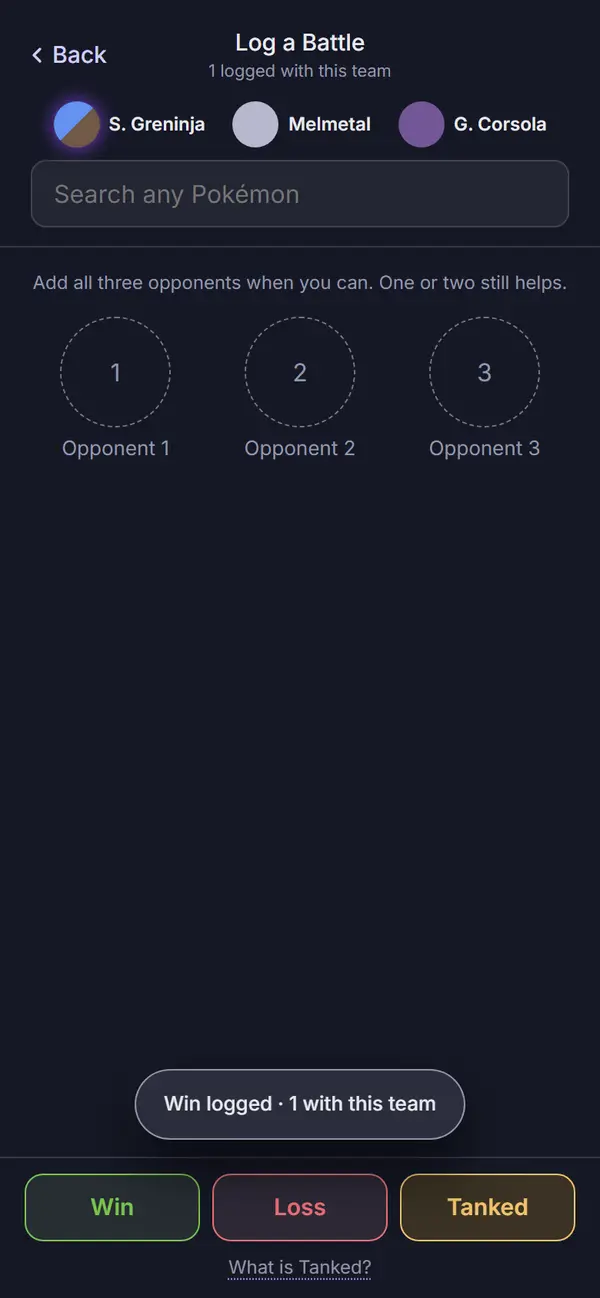
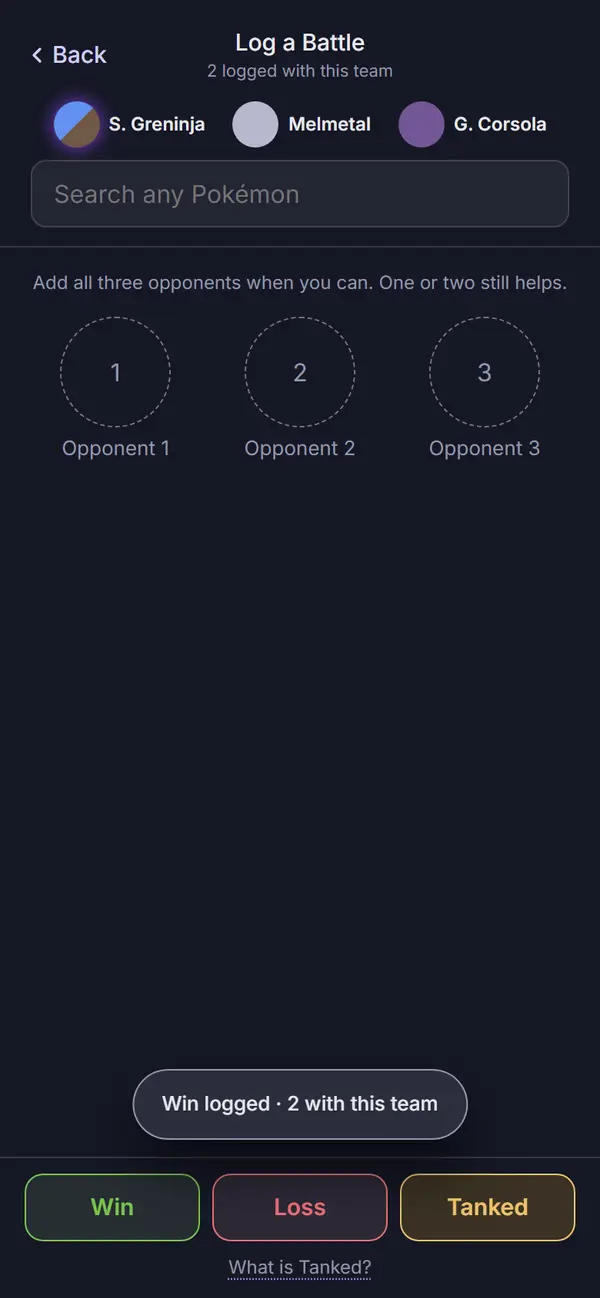
Design: final review record fixes for Play and the signed pages
Final review I2, I3, M5 and M6, plus the fix wave's own run.

I2: analysis.md gains an After sign-off row for "Link copied" as an info
confirmation at the foot ("Could not copy" stays a warning; the toast
button is now 44px); teams.md gains one for the update toast's button and
padding, and its "unchanged" line points to it. Both keep their
signatures. your-meta.md and log-battle.md no longer say that record
"still describes" the old toast.

I3: log-battle.md names the six close cells log-battle-card shows and
points the open decision at them. M5: store.test.tsx covers an edit with
sharing off (no /battles call; fails with the sharing check removed), and
the redirect cites the real newSet.test.tsx block. M6: your-meta.md says
the T chip is gray where Tanked is amber (flagged for Travis), "Save
changes or Back", and 28 contrast cases.

web:audit on e80cc9c: exit 0, zero findings on every enforced screen.
log-battle-likely, -saved and -edit were re-converted (0 logged; 2 and 3
with this team; the seeded time); every other Play and signed capture
converted byte for byte identical. The three Play records stay unsigned.

Claude-Session: https://claude.ai/code/session_01QpDSW9ZhLWToL3VMBP1mJq

diff --git a/apps/web/test/store.test.tsx b/apps/web/test/store.test.tsx
@@ -402,6 +402,46 @@ describe('battle log actions', () => {
     }
   });
 
+  it('with sharing off, an edit does not try to send (the same setup sends with sharing on, above)', async () => {
+    await storage.saveSettings({ ...DEFAULT_SETTINGS, share: { enabled: false } });
+    const eligibleSpy = vi
+      .spyOn(await import('../src/metaShare.ts'), 'shareEligible')
+      .mockReturnValue(true);
+    const fetchSpy = vi
+      .spyOn(globalThis, 'fetch')
+      .mockResolvedValue(new Response(null, { status: 200 }));
+    const battlePosts = () =>
+      fetchSpy.mock.calls.filter(([url]) => String(url).includes('/battles')).length;
+    try {
+      await mount();
+      expect(latest!.state.settings.share?.enabled).toBe(false);
+      await act(async () => {
+        await latest!.actions.startSet({ species: ['tinkaton', 'azumarill', 'clodsire'] });
+        await latest!.actions.logBattle({ opponents: ['medicham'], result: 'win', tanked: false });
+      });
+      const setId = latest!.state.sets[0]!.id;
+      const battleId = latest!.state.sets[0]!.battles[0]!.id;
+      let ok = false;
+      await act(async () => {
+        ok = await latest!.actions.editBattle(setId, battleId, {
+          opponents: ['medicham'],
+          result: 'loss',
+          tanked: false,
+        });
+      });
+      expect(ok).toBe(true);
+      // Give a share sync every chance to run before checking that none went out.
+      await act(async () => {
+        await new Promise((r) => setTimeout(r, 50));
+      });
+      expect(battlePosts()).toBe(0);
+      expect(latest!.state.sets[0]!.battles[0]!.sharedAt).toBeUndefined();
+    } finally {
+      fetchSpy.mockRestore();
+      eligibleSpy.mockRestore();
+    }
+  });
+
   it('endSet closes a partial set and startFresh marks the league', async () => {
     await mount();
     await act(async () => {

diff --git a/docs/design/audits/log-battle.md b/docs/design/audits/log-battle.md
@@ -15,8 +15,10 @@ sprite rendering itself.
 ## Screenshots
 
 Dark and light at 390px, one pair per state, converted to WebP (600px wide, quality 72), from
-`apps/web/screenshots/<name>-{dark,light}.png` (fresh `npm run web:audit` run, 2026-09-26, on
-`7a40b6a`, the branch's last commit). `21-log-battle`, `log-battle-card` and `log-battle-edit` are
+`apps/web/screenshots/<name>-{dark,light}.png` (`npm run web:audit` run, 2026-09-26, on
+`7a40b6a`; re-run for the final fix wave on `e80cc9c`, where `log-battle-likely`,
+`log-battle-saved` and `log-battle-edit` changed and were re-converted, and the other three
+converted byte for byte identical). `21-log-battle`, `log-battle-card` and `log-battle-edit` are
 full-page; `log-battle-likely`, `log-battle-saved` and `log-battle-wide` are viewport shots (the
 first two mid-flow, where a full-page shot would add nothing new below the fold; the wide shot is
 1280×900, the width and height alone, not a phone viewport).
@@ -24,15 +26,16 @@ first two mid-flow, where a full-page shot would add nothing new below the fold;
 | State | Dark | Light |
 | --- | --- | --- |
 | `21-log-battle`: empty. `Header variant="sub"` "Log a Battle" / "0 logged with this team", Back; the team strip (Shadow Greninja, Melmetal, Galarian Corsola); the search "Search any Pokémon"; "Add all three opponents when you can. One or two still helps."; three dashed empty slots; Win/Loss/Tanked at the foot with "What is Tanked?" under them | ![](img/21-log-battle-dark.webp) | ![](img/21-log-battle-light.webp) |
-| `log-battle-card`: two opponents slotted (Tinkaton, Galarian Corsola), the grid folded, the in-battle card open on Galarian Corsola: moves with counts and effectiveness (1/2, 1x, 2x), the shield grid (Wins / Mixed / Mixed, all-decisive W/L letters, no close cell in this matchup), the reads line (full page) | ![](img/log-battle-card-dark.webp) | ![](img/log-battle-card-light.webp) |
+| `log-battle-card`: two opponents slotted (Tinkaton, Galarian Corsola), the grid folded, the in-battle card open on Galarian Corsola: moves with counts and effectiveness (1/2, 1x, 2x), the shield grid (Wins / Mixed / Mixed; row = your shields, column = theirs; six close cells, outlined rather than filled: S. Greninja 0/0 W and 1/2 L, Melmetal 0/0 W and 2/2 W, G. Corsola 0/0 L and 2/2 L; the other 21 solid), the reads line (full page) | ![](img/log-battle-card-dark.webp) | ![](img/log-battle-card-light.webp) |
 | `log-battle-likely`: one opponent slotted (Medicham), the search still focused and open, "Often with Medicham" leading the panel with six ranked names (Azumarill, Clodsire, Lanturn, Registeel, S. Dragonite, S. Swampert), Recent under it with those six left out | ![](img/log-battle-likely-dark.webp) | ![](img/log-battle-likely-light.webp) |
-| `log-battle-saved`: after a Win is logged, the neutral info notice "Win logged · 1 with this team" sitting at the foot just above the Win/Loss/Tanked bar, the slots cleared back to empty | ![](img/log-battle-saved-dark.webp) | ![](img/log-battle-saved-light.webp) |
-| `log-battle-edit`: opened from a "Loss against ..." result chip on Your Meta. "Edit battle" / "Logged Sep 26, 12:04 PM"; the battle's three opponents fill the slots (Azumarill, Clodsire, Shadow Dragonite, the last wrapping to two lines with no ellipsis); Loss is pressed (filled); the primary reads "Save changes" | ![](img/log-battle-edit-dark.webp) | ![](img/log-battle-edit-light.webp) |
+| `log-battle-saved`: after a Win is logged, the neutral info notice sitting at the foot just above the Win/Loss/Tanked bar, the slots cleared back to empty. Each theme's shot taps the last notice away and logs its own Win for a fresh one (final review M2), so dark reads "Win logged · 2 with this team" and light "Win logged · 3 with this team", the sub-line "2 logged" and "3 logged" to match; the set is put back as it was after the step | ![](img/log-battle-saved-dark.webp) | ![](img/log-battle-saved-light.webp) |
+| `log-battle-edit`: opened from a "Loss against ..." result chip on Your Meta. "Edit battle" / "Logged Sep 26, 1:00 PM" (the seeded battle's time follows the run's clock); the battle's three opponents fill the slots (Azumarill, Clodsire, Shadow Dragonite, the last wrapping to two lines with no ellipsis); Loss is pressed (filled); the primary reads "Save changes" | ![](img/log-battle-edit-dark.webp) | ![](img/log-battle-edit-light.webp) |
 | `log-battle-wide`: 1280×900. Header and team strip span the full width; search, the hint line and the three slots sit in the left column; the in-battle card sits beside them in a right column; Win/Loss/Tanked span the width at the foot | ![](img/log-battle-wide-dark.webp) | ![](img/log-battle-wide-light.webp) |
 
 Not captured, all string- or timing-driven states rather than layout differences: the no-open-set
-redirect to New Set (a defensive path, covered by `apps/web/test/newSet.test.tsx`'s own regression
-test for the redirect and by Log a Battle's "renders New Set when there is no open set" case); the
+redirect to New Set (a defensive path, covered by `apps/web/test/newSet.test.tsx`'s "Cancel escapes
+Log a Battle's own no-set redirect" describe block, which drives the real router from Log a Battle
+with nothing running to New Set and checks the redirect replaces its history entry); the
 in-battle card's loading state (shared `Loading`, the same component audited elsewhere); the
 transient "saving" moment between a result tap and the toast landing; a slot's remove (×) mid-tap.
 
@@ -52,9 +55,10 @@ capture possible.
 ## Automated checks
 
 - [x] `npm run web:audit` clean for this page's screens (listed in `AUDIT_ENFORCED`), run
-      2026-09-26 on `7a40b6a`: exit 0. Zero findings on `21-log-battle`, `log-battle-card`,
-      `log-battle-likely`, `log-battle-saved`, `log-battle-edit` and `log-battle-wide`, in both
-      themes. 693 findings remain on screens not yet redesigned, none failing the run.
+      2026-09-26 on `7a40b6a`, and again for the final fix wave on `e80cc9c`: exit 0 both times.
+      Zero findings on `21-log-battle`, `log-battle-card`, `log-battle-likely`, `log-battle-saved`,
+      `log-battle-edit` and `log-battle-wide`, in both themes. 693 findings remain on screens not
+      yet redesigned, none failing the run.
 - [x] no console errors: the run printed no "Browser errors" section.
 - [x] the run's own guards, all passed:
   - `assertTitleCentred` holds on both "Log a Battle" and "Edit battle" (printed offsets of
@@ -71,13 +75,15 @@ capture possible.
     passed: "Galarian Corsola" is whole on one line in both themes);
   - `log-battle-saved` fails the run if the notice sits outside 4-24px above the result bar, or
     below the sticky head; it passed in both themes;
-  - the restore step confirms no state leaked from Your Meta's seeded capture: this page's own
-    captures all read "0 logged with this team" (`21-log-battle`) or "1 logged with this team"
-    (`log-battle-likely`, `log-battle-saved`) against Your Meta's seeded "3-2", proving the set was
-    put back before these ran.
+  - the restore steps confirm no state leaked between steps: the running set is put back after
+    Your Meta's seeded capture and again after `log-battle-saved`, so `21-log-battle` and
+    `log-battle-likely` both read "0 logged with this team" against Your Meta's seeded "3-2" (on
+    `7a40b6a`, before the second restore, `log-battle-likely` inherited the saved step's Win and
+    read "1 logged").
 - [x] `npm run lint`, `npm run typecheck`, `npm test`, `npm run check-colors`, `npm run
-      check-tokens`, all re-run 2026-09-26 on `7a40b6a`: lint exit 0; typecheck exit 0 across every
-      workspace; `npm test` 140 files, 1287 tests passed; `check-colors` exit 0 (the color-literal
+      check-tokens`, all re-run 2026-09-26 on `7a40b6a` and again on `e80cc9c` for the final fix
+      wave: lint exit 0; typecheck exit 0 across every workspace; `npm test` 140 files, 1291 tests
+      passed on `e80cc9c` (1287 on `7a40b6a`); `check-colors` exit 0 (the color-literal
       baseline shrank by one `#fff`, removed from the shield grid and the toast, never grew);
       `check-tokens`: ok. `npm run ui:audit`: "gallery audit: clean in dark and light" (the `Button`
       win/loss/warn variants and `pressed` prop this page added both show in the gallery).
@@ -190,6 +196,11 @@ capture possible.
 | Task 7, first audit pass (380 enforced findings, all here): the shield grid faded close results with inline `opacity`, taking the letters under 4.5:1; the slot remove (×) was 24×24; the notice/update toast's OK button was 43×30 at 3.22:1 in dark. | A result within 100 of 500 is now a `.close` cell (the outcome tint with an inset outline and a colored letter, `data-audit-contrast="static"` since axe cannot judge a one-letter cell); the (×) is a 44px transparent button around the same 24px circle as a child `<span>`; the OK button is at least 44×44 on `--accent-lo`/`--on-accent` (shared with `UpdateToast`'s Reload). | `307f405` |
 | Task 7, seen in the captures (not caught by axe): "Astonish" broke mid-word ("Astonis / h"); the saved toast wrapped at half the viewport ("Win logged · 1 / with this team"). | The long-move-name shrink now keys on the longest word exceeding 7 characters, not just a single-word name; `.notice-toast` is `width: max-content` (still bounded by `max-width: calc(100vw - 32px)`). | `307f405` |
 | Task 7 round 2: the saved notice still sat at the top with an OK button for 8 seconds, and slot names ellipsized instead of wrapping (a shared review finding with New Set, whose slots use the same rule). | Info notices move to the page's foot (measured against the highest fixed foot bar, here the result bar), one `.notice-tap` to dismiss, no OK, 3 seconds; `.opp-slot .small` wraps on word breaks with no ellipsis, and the remove (×) re-centers from the slot's own center so it stays on the token's upper right. Seen in `log-battle-saved` (the pill above the result bar) and `log-battle-edit` ("Shadow Dragonite" wraps to two lines). | `7a40b6a` |
+| Final review I3: this record said no capture shows a close shield-grid cell (the `log-battle-card` row, the open decision, the open item), though `log-battle-card` shows six in both themes. | The row, the open decision and the open item name the six cells (S. Greninja 0/0 W and 1/2 L, Melmetal 0/0 W and 2/2 W, Galarian Corsola 0/0 L and 2/2 L) and point Travis at `log-battle-card` as the look to judge; checked by eye in the fix wave's capture. | this record's commit |
+| Final review M1: `NoticeToast` measured the foot once, so a confirmation raised on Your Meta (Share this team) and carried into Log a Battle within 3 seconds sat over Win/Loss/Tanked, where a tap dismissed it instead of logging. This record called that unreachable from this page's flow. | The measurement re-runs on a route change; `noticeToast.test.tsx` stubs the bars' boxes and checks the notice moves from above the tab bar to above the result bar (it failed before the fix: 68px against 132px). The open item is dropped. | `75c5fce` |
+| Final review M2: the `log-battle-saved` capture's re-raise returned early when a notice was up (which could clear before `mustShow` read it) and logged real Wins that later steps inherited (`log-battle-likely` read "1 logged"). | Each shot taps any notice away, waits for it to go and logs one Win for a fresh notice; the running set is put back after the step. `log-battle-likely` now reads "0 logged"; `log-battle-saved` reads 2 (dark) and 3 (light). web:audit exit 0 on `e80cc9c`. | `75c5fce`, `e80cc9c` |
+| Final review M3 and M4: `.slot-wrap`'s new rules also matched Build's wrap; `CLOSE_MARGIN` was a second meaning of "close" with no word on why. | Log a Battle's stretch and `min-width` are scoped to `.opp-slots > .slot-wrap`. The first pass also scoped `position: relative`, which Build's `.pick-side` needs (pre-branch, shared): Build's remove button drew off its card and web:audit hung in the build step; `e80cc9c` puts that one declaration back on the shared rule, Build's captures convert identical to its signed record, and the capture script now fails after three remove taps that leave a pick. `CLOSE_MARGIN` carries a comment on the wider, visual band; the open item stays for Travis. | `75c5fce`, `e80cc9c` |
+| Final review M5: Review focus 3 said an edit with sharing off does not send, "both tested", with no such test; the redirect was credited to a Log a Battle test that does not exist. | `store.test.tsx` "with sharing off, an edit does not try to send" (device mocked eligible, no `/battles` call after `editBattle`; it fails with the sharing check removed from `shareSync`: 2 calls). The redirect cites `newSet.test.tsx`'s "Cancel escapes Log a Battle's own no-set redirect" describe block. | this record's commit |
 
 ## Decisions and rulings (plan `2026-09-26-play.md`, `global-constraints.md`)
 
@@ -211,7 +222,10 @@ capture possible.
    the same row once, per Task 1's upsert; the community meta counts it once, with the new result.
 7. **Review focus 2 (tanked to a win, or back):** `result` and `tanked` stay consistent
    (`result: null` exactly when tanked), tested for both directions in `store.test.tsx`.
-8. **Review focus 3 (sharing off):** no board read, and an edit does not try to send; both tested.
+8. **Review focus 3 (sharing off):** no board read, and an edit does not try to send; both tested
+   (`logBattle.test.tsx`'s "does not read the board with sharing off"; `store.test.tsx`'s "with
+   sharing off, an edit does not try to send", which mocks the device as eligible and finds no
+   `/battles` call after `editBattle`, the same setup that sends with sharing on).
 9. **Review focus 5 (the search with the card open on a phone):** the input stays visible below the
    sticky header rather than sliding under it once the card opens, per the spec's own fix.
 
@@ -220,12 +234,13 @@ fade.** Before this task, a result's letter faded in proportion to its margin fr
 continuous read Travis said he liked: "he said he liked the margin shading"). The redesign needed a
 contrast fix (the faded letters fell under 4.5:1), and the fix the controller chose is a two-step
 rule instead: a result within 100 points of 500 is a `.close` cell (tinted, outlined, still a
-colored letter), everything else renders fully solid. None of this record's own captures land a
-close cell (`log-battle-card`'s matchup is decisive on all nine cells in both themes), so the new
-look is not shown in any image here, only in the code (`OpponentCard.tsx`'s `CLOSE_MARGIN = 100`)
-and in `apps/web/test/contrast.test.ts`'s `w.close`/`l.close` cases. The two-step read keeps the
-margin information Travis liked in coarser form; whether that's the right trade against the old
-continuous fade is this record's one open call for sign-off.
+colored letter), everything else renders fully solid. `log-battle-card` (both themes) is the look
+to judge: six of its 27 cells are close and outlined (S. Greninja 0/0 W and 1/2 L, Melmetal 0/0 W
+and 2/2 W, Galarian Corsola 0/0 L and 2/2 L, row = your shields, column = theirs) beside the solid
+rest; `log-battle-wide` shows the same grid. The rule is `OpponentCard.tsx`'s `CLOSE_MARGIN = 100`,
+and `apps/web/test/contrast.test.ts`'s `w.close`/`l.close` cases hold the letters at 4.5:1. The
+two-step read keeps the margin information Travis liked in coarser form; whether that's the right
+trade against the old continuous fade is this record's one open call for sign-off.
 
 ## Visible changes outside Log a Battle
 
@@ -254,7 +269,7 @@ continuous fade is this record's one open call for sign-off.
 ## Open items for Travis (not fixed on this branch)
 
 - **The shield grid's close-margin rule (outlined) replaces the old continuous fade by margin.**
-  See the open decision above; none of this record's captures happen to show a close cell.
+  See the open decision above; `log-battle-card` shows six close cells, solid beside outlined.
 - **The Shadow glow (`.token-shadow-wrap::before`) is still not visible.** Pre-existing, unchanged
   by this branch, the same open item recorded on Team Analysis and Build.
 - **Log a Battle's supporting text stays at 12px** (the `.meta` class: the sub-line, the hint line,
@@ -268,14 +283,10 @@ continuous fade is this record's one open call for sign-off.
   group for this league in the pinned data.** That's a fact about the synthetic fixture, not
   something Log a Battle's own suggestion grid marks (it has no outsider dagger the way Your Meta's
   faced list does); noted here for the record since the dispatch called it out.
-- **The saved notice's foot position is measured once, when it appears**, not re-measured on a
-  route change inside its 3 seconds; a share-then-navigate sequence elsewhere in the app could in
-  principle show the pill against the wrong foot bar for a moment. Not reachable from this page's
-  own flow (its result bar is fixed for the page's lifetime); noted for completeness since the
-  fix is shared app-wide.
 - **The shared confirmation-toast change (info at the foot, no OK, 3 seconds) is a behavior change
-  on the signed Team Analysis page**, whose own audit record still describes the old top-toast
-  "Link copied" behavior. Updating that record is outside this task's three pages.
+  on the signed Team Analysis page.** Its record never described its "Link copied" notice, so it
+  does not record the change; see its "After sign-off" row (and Teams' for the update toast's
+  button). Both keep their signatures.
 
 ## Sign-off
 

diff --git a/docs/design/audits/your-meta.md b/docs/design/audits/your-meta.md
@@ -17,8 +17,8 @@ instead; nothing on this branch touched sprite rendering itself.
 
 Dark and light at 390px, one pair per state, full-page, converted to WebP (600px wide, quality 72)
 the same way the Teams, Build and Team Analysis images were, from
-`apps/web/screenshots/<name>-{dark,light}.png` (fresh `npm run web:audit` run, 2026-09-26, on
-`7a40b6a`, the branch's last commit).
+`apps/web/screenshots/<name>-{dark,light}.png` (`npm run web:audit` run, 2026-09-26, on
+`7a40b6a`; the final fix wave's run on `e80cc9c` converted both pairs byte for byte identical).
 
 | State | Dark | Light |
 | --- | --- | --- |
@@ -38,12 +38,15 @@ dismissed (session-sticky, as before). The result chip's own edit destination is
 ## Automated checks
 
 - [x] `npm run web:audit` clean for this page's screens (listed in `AUDIT_ENFORCED`), run
-      2026-09-26 on `7a40b6a`: exit 0. Zero findings on `20-your-meta` and `your-meta-active` in
-      both themes. 693 findings remain on screens not yet redesigned, none failing the run.
+      2026-09-26 on `7a40b6a`, and again for the final fix wave on `e80cc9c`: exit 0 both
+      times. Zero findings on `20-your-meta` and `your-meta-active` in both themes; the final run's
+      captures of both converted byte for byte identical to the images below. 693 findings
+      remain on screens not yet redesigned, none failing the run.
 - [x] no console errors: the run printed no "Browser errors" section.
 - [x] `npm run lint`, `npm run typecheck`, `npm test`, `npm run check-colors`, `npm run
-      check-tokens`, all re-run 2026-09-26 on `7a40b6a`: lint exit 0; typecheck exit 0 across every
-      workspace; `npm test` 140 files, 1287 tests passed; `check-colors` exit 0; `check-tokens`: ok.
+      check-tokens`, all re-run 2026-09-26 on `7a40b6a` and again on `e80cc9c` for the final fix
+      wave: lint exit 0; typecheck exit 0 across every workspace; `npm test` 140 files, 1291 tests
+      passed on `e80cc9c` (1287 on `7a40b6a`); `check-colors` exit 0; `check-tokens`: ok.
       `npm run ui:audit`: "gallery audit: clean in dark and light" (the shared `Button` win/loss/warn
       variants Log a Battle added, and the `.seg` fix this page's own review moved to the source,
       both live in the gallery).
@@ -58,12 +61,13 @@ dismissed (session-sticky, as before). The result chip's own edit destination is
 - [x] colors from tokens, in their roles: violet marks what you tap (the primary "Log a battle" /
       "Pick your team" button, "See what everyone else is facing", the `Seg`'s pressed label, the
       league switcher); pink is the one measured line, "N of your battles are in the community
-      meta", with its dot, never a pill (`your-meta-active`); the result chips use the outcome
-      tokens (win green, loss red-pink, tanked muted amber-free gray) exactly as Log a Battle's
-      result buttons do; nothing on the page is red (Start fresh keeps `ConfirmSheet`'s default
-      tone, no danger button, confirmed by the test asserting no `.ui-btn-danger` and that
-      `window.confirm` is never called). Backed by `check-colors` (clean) and zero `web:audit`
-      contrast findings in either theme.
+      meta", with its dot, never a pill (`your-meta-active`); the W and L result chips use the
+      outcome tokens (win green, loss red-pink) as Log a Battle's Win and Loss buttons do, but the
+      T chip is a neutral gray (`--surface2` fill, `--muted` letter, `.result-chip.tanked` in
+      `app.css`) while Log a Battle's Tanked button is amber (see Open items); nothing on the page
+      is red (Start fresh keeps `ConfirmSheet`'s default tone, no danger button, confirmed by the
+      test asserting no `.ui-btn-danger` and that `window.confirm` is never called). Backed by
+      `check-colors` (clean) and zero `web:audit` contrast findings in either theme.
 - [x] at most four text levels, one page title, with the same 12px `.meta` supporting-text
       deferral Build and Team Analysis carry (see Open items): "Your Meta" is the one title
       (`Header variant="top"`, matching Teams' pattern); "Current team" and "Your teams" are
@@ -122,8 +126,8 @@ dismissed (session-sticky, as before). The result chip's own edit destination is
       `window.confirm`, and moves battles to Earlier seasons without deleting anything.
 - [x] back returns to the origin: Your Meta is a tab-bar destination rather than a page reached by
       "Back", so this bullet applies to the one route it opens: a result chip's edit route lands
-      back on `#/meta` after Save changes or Cancel, per Log a Battle's own back rule (its record
-      covers the test for that return).
+      back on `#/meta` after Save changes or Back (edit mode has Back, not Cancel), per Log a
+      Battle's own back rule (its record covers the test for that return).
 - [ ] input layout rule: not applicable. Your Meta has no text input.
 - [x] icon buttons named; focus visible: the meta.pick3.gg and Settings `IconButton`s carry their
       labels (matching Teams); the explainer's dismiss is 44×44; each result chip and the `Seg`'s
@@ -145,9 +149,11 @@ dismissed (session-sticky, as before). The result chip's own edit destination is
       the current list and Earlier seasons, and never marked before the meta group loads), the
       explainer copy and its dismissal, both footer variants, Start fresh through the
       `alertdialog`, the one-line link out, and the header `IconButton`s), plus
-      `apps/web/test/contrast.test.ts` (9 tests: each result-chip letter and the `Seg`'s pressed
-      label at 4.5:1 in all three theme blocks) and `apps/web/src/state/contribution.ts`'s own
-      `apps/web/test/contribution.test.ts` (`contributedCount`: stamped and not tanked, across every
+      `apps/web/test/contrast.test.ts` (28 cases in all: this page's 9 are each result-chip
+      letter, W, L and T, at 4.5:1 in all three theme blocks, and 6 are the shared `Seg`'s pressed
+      label on `--bg` and `--surface` in the same blocks; the other 13 are Log a Battle's shield
+      grid, its twelve cell cases and the axis numbers) and
+      `apps/web/src/state/contribution.ts`'s own `apps/web/test/contribution.test.ts` (`contributedCount`: stamped and not tanked, across every
       league, zero for nothing sent).
 
 ## Findings and fixes
@@ -158,6 +164,8 @@ dismissed (session-sticky, as before). The result chip's own edit destination is
 | Task 5 review, Minor: two unrelated `linear-gradient` blocks (`.landing-you`, `.mp-card`) were reformatted by a Prettier pass with no value change, and the report's file-level summary overstated that `.action-row` also got a page-scoped rule. | The two gradient blocks are back on one line each (`git diff` confirms neither rule's value moved); the report line is corrected. | `a5f99e3` |
 | Task 7, seen in the captures (not caught by axe): "Shadow Dragonite" and "Shadow Swampert" wrapped to two lines where the approved render keeps them on one line, and `tabular-nums` on the record spaced "1 - 5" wide without aligning anything, since each row is its own grid. | Dropped `tabular-nums` and added `nowrap` on the name, so both names fit on one line, matching the render; visible in `your-meta-active`, both themes. | `307f405` |
 | Task 7, round 2: the app's confirmation toasts (including this page's own "Link copied" from Share this team) sat at the top with an OK button and read as a warning. | Moved to the shared `NoticeToast` fix (see Log a Battle's record for the full change): info notices now render at the page's foot, one tap to dismiss, no OK, 3 seconds; warnings are unchanged. Not re-captured on this page (no Share tap in the capture flow) but exercised by `apps/web/test/noticeToast.test.tsx` and the app-wide caller check in the Task 7 review. | `7a40b6a` |
+| Final review M6: the result chips were said to use the outcome tokens "exactly as Log a Battle's result buttons do", but the T chip is gray where Tanked is amber; "Save changes or Cancel" (edit mode has Back); `contrast.test.ts` called "9 tests" when it has 28 cases. | The Aesthetics line says W and L match and T is gray, with the gray-versus-amber choice added to Open items for Travis; "Save changes or Back"; the tests line counts the 28 cases (this page's 9 chip cases, 6 `Seg` cases, 13 for Log a Battle's grid). | this record's commit |
+| Final review I2: this record said the signed Team Analysis record "still describes" the old top toast; it never described that notice. | Reworded: that record does not record the change; it now has an "After sign-off" row (and Teams one for the update toast's button). | this record's commit |
 
 ## Decisions and rulings (plan `2026-09-26-play.md`, `global-constraints.md`)
 
@@ -216,9 +224,14 @@ dismissed (session-sticky, as before). The result chip's own edit destination is
   not a bug, but worth a look at sign-off since it may surprise.
 - **The shared confirmation-toast change (info at the foot, no OK, 3 seconds) is a behavior change
   on a page other than this one's own capture set can show:** this page's "Link copied" notice now
-  behaves the same way Log a Battle's saved notice does, but no capture here shows it landing; the
-  Team Analysis signed record still describes the old top-toast behavior for its own "Link copied"
-  line (see Log a Battle's record for the same note).
+  behaves the same way Log a Battle's saved notice does, but no capture here shows it landing. The
+  signed Team Analysis record never described its own "Link copied" notice, so it does not record
+  the change; see its "After sign-off" row (and Teams' for the update toast's button).
+- **The T chip is gray, Log a Battle's Tanked button is amber.** The W and L chips match the Win
+  and Loss buttons' outcome colors; T uses the neutral `--surface2`/`--muted` pair
+  (`.result-chip.tanked`), where Tanked on Log a Battle is the amber `warn` variant. Visible in
+  `your-meta-active`. Gray reads "does not count" (a tanked battle is left out of the record);
+  amber would match the button the battle was logged with. Travis's call at sign-off.
 
 ## Sign-off
 

diff --git a/docs/design/audits/new-set.md b/docs/design/audits/new-set.md
@@ -15,9 +15,10 @@ sprite rendering itself.
 ## Screenshots
 
 Dark and light at 390px, one pair per state, full-page, converted to WebP (600px wide, quality 72),
-from `apps/web/screenshots/<name>-{dark,light}.png` (fresh `npm run web:audit` run, 2026-09-26, on
-`7a40b6a`, the branch's last commit; the run visits Teams first and waits for its recommendation to
-settle before shooting New Set, so its "From pick3" rows have real teams to show).
+from `apps/web/screenshots/<name>-{dark,light}.png` (`npm run web:audit` run, 2026-09-26, on
+`7a40b6a`; the final fix wave's run on `e80cc9c` converted both pairs byte for byte identical;
+the run visits Teams first and waits for its recommendation to settle before shooting New Set, so
+its "From pick3" rows have real teams to show).
 
 | State | Dark | Light |
 | --- | --- | --- |
@@ -33,8 +34,10 @@ button's `disabled` state and the slot contents, tested directly).
 ## Automated checks
 
 - [x] `npm run web:audit` clean for this page's screens (listed in `AUDIT_ENFORCED`), run
-      2026-09-26 on `7a40b6a`: exit 0. Zero findings on `22-new-set` and `new-set-searching`, in
-      both themes. 693 findings remain on screens not yet redesigned, none failing the run.
+      2026-09-26 on `7a40b6a`, and again for the final fix wave on `e80cc9c`: exit 0 both
+      times. Zero findings on `22-new-set` and `new-set-searching` in both themes; the final run's
+      captures of both converted byte for byte identical to the images below. 693 findings
+      remain on screens not yet redesigned, none failing the run.
 - [x] no console errors: the run printed no "Browser errors" section.
 - [x] the run's own guards, all passed:
   - `assertTitleCentred` holds on "Pick Your Team" (printed an offset of `-0.0px` in this run,
@@ -44,8 +47,9 @@ button's `disabled` state and the slot contents, tested directly).
   - `new-set-searching` requires both "From pick3" and "Recent teams" to be absent from the DOM
     while a query is typed, not merely hidden by CSS.
 - [x] `npm run lint`, `npm run typecheck`, `npm test`, `npm run check-colors`, `npm run
-      check-tokens`, all re-run 2026-09-26 on `7a40b6a`: lint exit 0; typecheck exit 0 across every
-      workspace; `npm test` 140 files, 1287 tests passed; `check-colors` exit 0; `check-tokens`: ok.
+      check-tokens`, all re-run 2026-09-26 on `7a40b6a` and again on `e80cc9c` for the final fix
+      wave: lint exit 0; typecheck exit 0 across every workspace; `npm test` 140 files, 1291 tests
+      passed on `e80cc9c` (1287 on `7a40b6a`); `check-colors` exit 0; `check-tokens`: ok.
       `npm run ui:audit`: "gallery audit: clean in dark and light".
 
 ## Aesthetics
@@ -115,9 +119,9 @@ button's `disabled` state and the slot contents, tested directly).
       Cancel returning to Your Meta, input before the slots; starting a set from three picks with
       Start set disabled until then; a From pick3 row reading like Teams with the number and fit;
       a From pick3 tap filling the three slots without starting, then Start set starting it with
-      its moves; clearing a slot after that tap dropping the moves; both lists hidden while searching; no From pick3 row with an empty recommendation; the
-      regression test for Cancel escaping Log a Battle's own no-set redirect without adding a
-      history entry).
+      its moves; clearing a slot after that tap dropping the moves; both lists hidden while
+      searching; no From pick3 row with an empty recommendation; the regression test for Cancel
+      escaping Log a Battle's own no-set redirect without adding a history entry).
 
 ## Findings and fixes
 
@@ -126,6 +130,8 @@ button's `disabled` state and the slot contents, tested directly).
 | Task 6 review, Important: Cancel's `back()` could bounce through Log a Battle's own no-open-set redirect back into New Set instead of reaching Your Meta, in the narrow case of a stale `#/meta/log` history entry (browser back/forward, or a reloaded/shared hash) reached with no set running. Before this task, Cancel was an unconditional `navigate`, which always escaped this loop; switching it to `back()` (needed for the "return to where you came from" rule) removed that escape hatch for this one path. | Fixed at the root rather than in New Set's own code: Log a Battle's redirect now calls `navigate({ screen: 'meta-new' }, { replace: true })`, so it never becomes a "where you came from" entry that a later Cancel could land back on. A new describe block in `newSet.test.tsx` drives a real router through the exact sequence (a stale `#/meta/log` visit with nothing running, then Cancel) and asserts no history entry was added and Cancel reaches `#/meta`. | `22d5080` |
 | Task 6 review, Minor: a test named "does not show From pick3 without a recommendation" actually exercised an empty recommendation (`teams: []`), not the literal absence of one. | Renamed to "does not show From pick3 with an empty recommendation"; no behavior change, the assertion was already correct for the branch it exercises (`fromPick3.length > 0`). | `22d5080` |
 | Task 7 round 2, seen in the captures (shared with Log a Battle, whose slots use the same rule): opponent slot names ellipsized at 84px instead of wrapping. | `.opp-slot .small` wraps on word breaks with no ellipsis, and this page's slots inherit the fix since they share the class; no capture in this record happens to fill a slot with a long enough name to show the wrap (`new-set-searching`'s Matches are short names), but the shared rule and its test (`apps/web/test/opponentCard.test.tsx`, `logBattle.test.tsx`) cover it. | `7a40b6a` |
+
+| Final review I1: a From pick3 tap called `startSet` at once (the pre-branch behavior), though the spec says tapping one fills the slots; since `startSet` closes the running set, one tap ended the current team with no look at the picks. This record said both ("fills the slots and starts that team"). | The tap fills the three slots with the team's picks and keeps its `TeamRef` (moves included); Start set starts that team, moves and all, while the slots still hold it; clearing any slot drops it, so a team refilled by hand starts without moves. Recent teams stay one tap. Two `newSet.test.tsx` cases (the tap fills three slots without calling `startSet`, then Start set saves the team with its specimens and moves; a cleared slot drops the moves). No capture taps a row, so `22-new-set` and `new-set-searching` show the same states as before. | `8403291` |
 
 Also seen in the captures during this task, not tied to a named review finding: New Set's "Start
 set" button was a small, left-aligned button before this pass; it is now full width, matching every
@@ -170,6 +176,11 @@ row). Fixed alongside the Task 7 audit pass, commit `307f405`.
   `LogBattle.tsx`, not in this page's file.
 
 ## Open items for Travis (not fixed on this branch)
+
+- **A From pick3 tap fills the slots; a Recent teams tap starts at once.** The final review's I1
+  followed the spec ("tapping one fills the slots") and kept Recent teams one tap ("as today").
+  If From pick3 should start at once too, the spec line and this record change instead of the
+  code.
 
 - **The Shadow glow (`.token-shadow-wrap::before`) is still not visible.** Pre-existing, unchanged
   by this branch, the same open item recorded on Team Analysis and Build.

diff --git a/docs/design/audits/teams.md b/docs/design/audits/teams.md
@@ -275,6 +275,7 @@ source, a failed run is followed by at most one more, not a loop").
 | After sign-off, from the Team Analysis revision (spec "Shared team components", `TeamRowSummary`, revised 2026-09-26): a collapsed row gave fit, difficulty and Stardust but not the battle number, the one figure that tells three Strong-fit teams apart ("it gives you an idea between 3 A teams who has an edge", Travis on the number, 2026-09-26). Seen in the new captures: the longer line broke "251,420 Stardust" between the number and its unit on the Zweilous row. | `TeamRowSummary` leads its line with the rounded battle number: "88 · Strong fit · Demanding · 805,320 Stardust", joined with `SEP` so no "·" starts a line, and the Stardust amount joined to its unit with `format.ts`'s `amount()` (the non-breaking join every cost line already used). `teamComponents.test.tsx` pins the whole line, non-breaking spaces included. `web:audit` re-run 2026-09-26: exit 0, zero findings on all nine enforced Teams screens in both themes, the four guards above passing. Re-converted: `02-teams`, `teams-second-open`, `teams-community`, `19-teams-ultra`, `teams-cup` (dark and light); checked by eye in both themes, every row's line wraps whole words and whole amounts. | `94fc75b`, and the commit adding this row |
 | After sign-off, from the Team Analysis revision's final review (I2, a controller ruling): the open row's strip (`TeamCardBody`'s `.slots3`, a flex column per member from `packages/ui/base.css`) dropped roles onto different lines when some names wrapped: Melmetal's "SAFE SWITCH" a line above "LEAD" and "CLOSER" in `02-teams` and `teams-second-open` (whose second open row also had "CLOSER" a line below "LEAD" and "SAFE SWITCH", under Galarian Stunfisk's two-line name), and three heights in `19-teams-ultra`, where "Shadow Giratina (Altered)" wraps to three lines. The signed "rows align" tick above covered the collapsed rows, not the open row's roles. | The subgrid Team Analysis's strip uses (`.analysis-strip-member`, `analysis.md`'s Findings), scoped to the web app as `.team-body .slots3` / `.team-body .slots3 > .slot` in `app.css`: each member spans the strip's three rows (token, name, role), so every role sits on one line under the longest name. `packages/ui`'s `.slots3`, meta.pick3.gg and `WhyThisTeam`'s own `.slot` tiles (not inside `.slots3`) do not move. `web:audit` re-run 2026-09-26: exit 0, zero findings on all nine enforced Teams screens in both themes. Re-converted: `02-teams`, `teams-second-open`, `teams-community`, `19-teams-ultra`, `teams-cup` (dark and light); checked by eye in both themes, "LEAD", "SAFE SWITCH" and "CLOSER" on one line in every open row, the Ultra row's three-line Giratina name included. | `6571697`, and the commit adding this row |
 | After sign-off, from the Team Analysis revision's final review (a controller ruling on which three threats the engine keeps): the open row prints `explanation.why`, whose "Biggest risk: X" names the first key threat. The engine used to keep the three most common non-wins, so a close matchup could be named over one nobody on the team beats. | The engine keeps unanswered threats first (best rating under 450), then close ones, meta rank within each (`f05e48c`, `analysis.md` Ruling 6), so "Biggest risk" now names the first unanswered threat. The captured Teams rows' lines did not change. | `f05e48c`, and the commit adding this row |
+| After sign-off, from piece 3 (Play, branch `play-redesign`, final review I2): the update toast ("New version ready" with Reload, shown on any page, Teams included) shares its pill and button rules with the app's notices. Piece 3's contrast and target fixes changed both rules, which this record's list below had called unchanged. | `.update-toast button` is at least 44×44 (`min-width`/`min-height: var(--tap)`, `padding: 0 16px`, `flex: none`) on `--accent-lo` under `--on-accent`, clearing 4.5:1 in both themes (it was `--accent` under `#fff`, `padding: 6px 12px`, about 43×30); the `.update-toast` pill's padding went from `8px 8px 8px 16px` to `4px 4px 4px 16px`, so the taller button keeps the pill's height. No Teams capture shows the update toast, so none is re-converted. | `852dc3e`, `7a40b6a`, and the commit adding this row |
 
 Visible changes outside Teams, from this branch:
 - Your Meta's hint, shown when another Source is picked, now says to pick "Your meta" as the
@@ -289,8 +290,9 @@ Visible changes outside Teams, from this branch:
   screen in the app: paler in dark, darker in light.
 - Every `.btn-ghost` gets the same `--accent-text` shift: the sheet Done buttons (Filters and
   Settings), the UpdateStatus links in the Settings sheet, the order and result rows, the set
-  Done button. The update toast's button is `.update-toast button`, not `.btn-ghost`, and is
-  unchanged.
+  Done button. The update toast's button is `.update-toast button`, not `.btn-ghost`, and this
+  shift does not touch it; piece 3 changed it later (44px, `--accent-lo`/`--on-accent`, the
+  pill's padding), recorded in the last "After sign-off" row under Findings.
 - Every sprite-less token letter in `apps/web` gains a thin dark outline and a soft drop shadow
   in place of the old faint shadow. The base rule also applies in `apps/meta`, but meta never
   shows a letter (`SpeciesToken`'s `showInitial` defaults to off and no meta call site turns it

diff --git a/docs/design/audits/analysis.md b/docs/design/audits/analysis.md
@@ -475,6 +475,7 @@ stands.
 | Revision final review M1: this record still asked Travis to choose the section order, though `ae87f83` wrote the shipped order into the spec. | The open item is dropped: the spec now lists the shipped order (Threats, When to switch, Pokémon details, Key wins, Why this team), and the order test pins it. The I1 and I2 open items are closed by the rows above. | this record's commit |
 | Revision final review M2 to M6: the reduced-motion branch of `scrollToId` lost its only test with the jump row (M2); no test for the pencil on a hand-built team (M3); the hero number was read bare, "88", by a screen reader (M4); prettier drift in two hunks this branch added (M5); nothing in the browser run counted the hero card's bars (M6). | M2: a strip tap under a stubbed `(prefers-reduced-motion: reduce)` scrolls with `behavior: 'auto'`, and `'smooth'` once restubbed. M3: `mountCustom`, Edit team, `#/build` with the same picks object. M4: a `.vh` "Battle strength " before `.hero-num`, outside it, so the region reads "Battle strength 88" and `.hero-num` stays "88" alone (a new ScoreCard test). M5: `prettier --write` on `Threats.tsx` and `teamDetail.test.tsx`. M6: `screens.mjs` requires five meters after the pencil step's reload and three in the custom step, throwing with the count; both held in this run. The M2 and M3 tests were each checked against a broken build (smooth always; the custom pencil reloading its picks) and failed there. | `945ac03` |
 | Seen in the fix wave's own captures, ruled by the controller: "unanswered" meant two things. Threats called an opponent close when the team's best rating was 450 or more, while When to switch said "Nobody on the team beats it" whenever no slot won a lead loss, so the same opponent read both ways: Hisuian Electrode in `14-custom-team`, Hisuian Electrode and Medicham in `14b-custom-unranked`, Feraligatr in `14c-shared-team` (close under Threats' rules, "Nobody on the team beats it" under When to switch). | One meaning in `explain.ts`: a lead loss nobody wins reads like the threat line when the best slot on the whole team (as the key threats pick it, the lead included) rates it 450 or more, "Close; shields decide it. Best try: <that Pokémon>."; under that it stays "Nobody on the team beats it. Shield, farm energy, and switch on your terms." One constant, `CLOSE_RATING`, holds the 450 for both. The plan now sorts the unanswered first, then the close ones nobody wins, then the ones with a switch, so the intro ("Unanswered threats first") stays true. Four switch-plan tests in `explain.test.ts`. Seen in the re-converted 14, 14b and 14c (both themes). The switch line ends with a period and the Threats line does not, as each did before. | `0c42a35` |
+| After sign-off, from piece 3 (Play, branch `play-redesign`, final review I2): Share this team's "Link copied. Paste it anywhere; it opens this team in pick3." was raised through the one shared notice, which had a single look: at the top of the page, amber, `role="alert"`, an OK button, 8 seconds. This record never described that notice, so nothing above is stale, but the page's behavior changed. | `notify` now takes a tone. "Link copied" (`TeamDetail.tsx:112`) is an `info` confirmation (`NoticeToast`): neutral `--surface2`, `role="status"`, at the page's foot just above the tab bar, the whole pill one 44px tap that clears it, no OK, gone after 3 seconds, and measured again if the page changes while it is up. "Could not copy the link. It is <url>" (`:114`) stays a warning: top, amber, `role="alert"`, OK, 8 seconds. The shared toast pill's padding went from 8px to 4px, and its button (the warning's OK, the update toast's Reload) is now at least 44×44 on `--accent-lo` under `--on-accent` (it was `--accent` under `#fff`, about 43×30). Tests: `noticeToast.test.tsx` (the foot, no OK, 3 seconds, the warning's 8 seconds, the move on a route change). No Team Analysis capture shows a notice, so none is re-converted. | `852dc3e`, `7a40b6a`, `75c5fce`, and the commit adding this row |
 
 ## Visible changes outside Team Analysis
 
